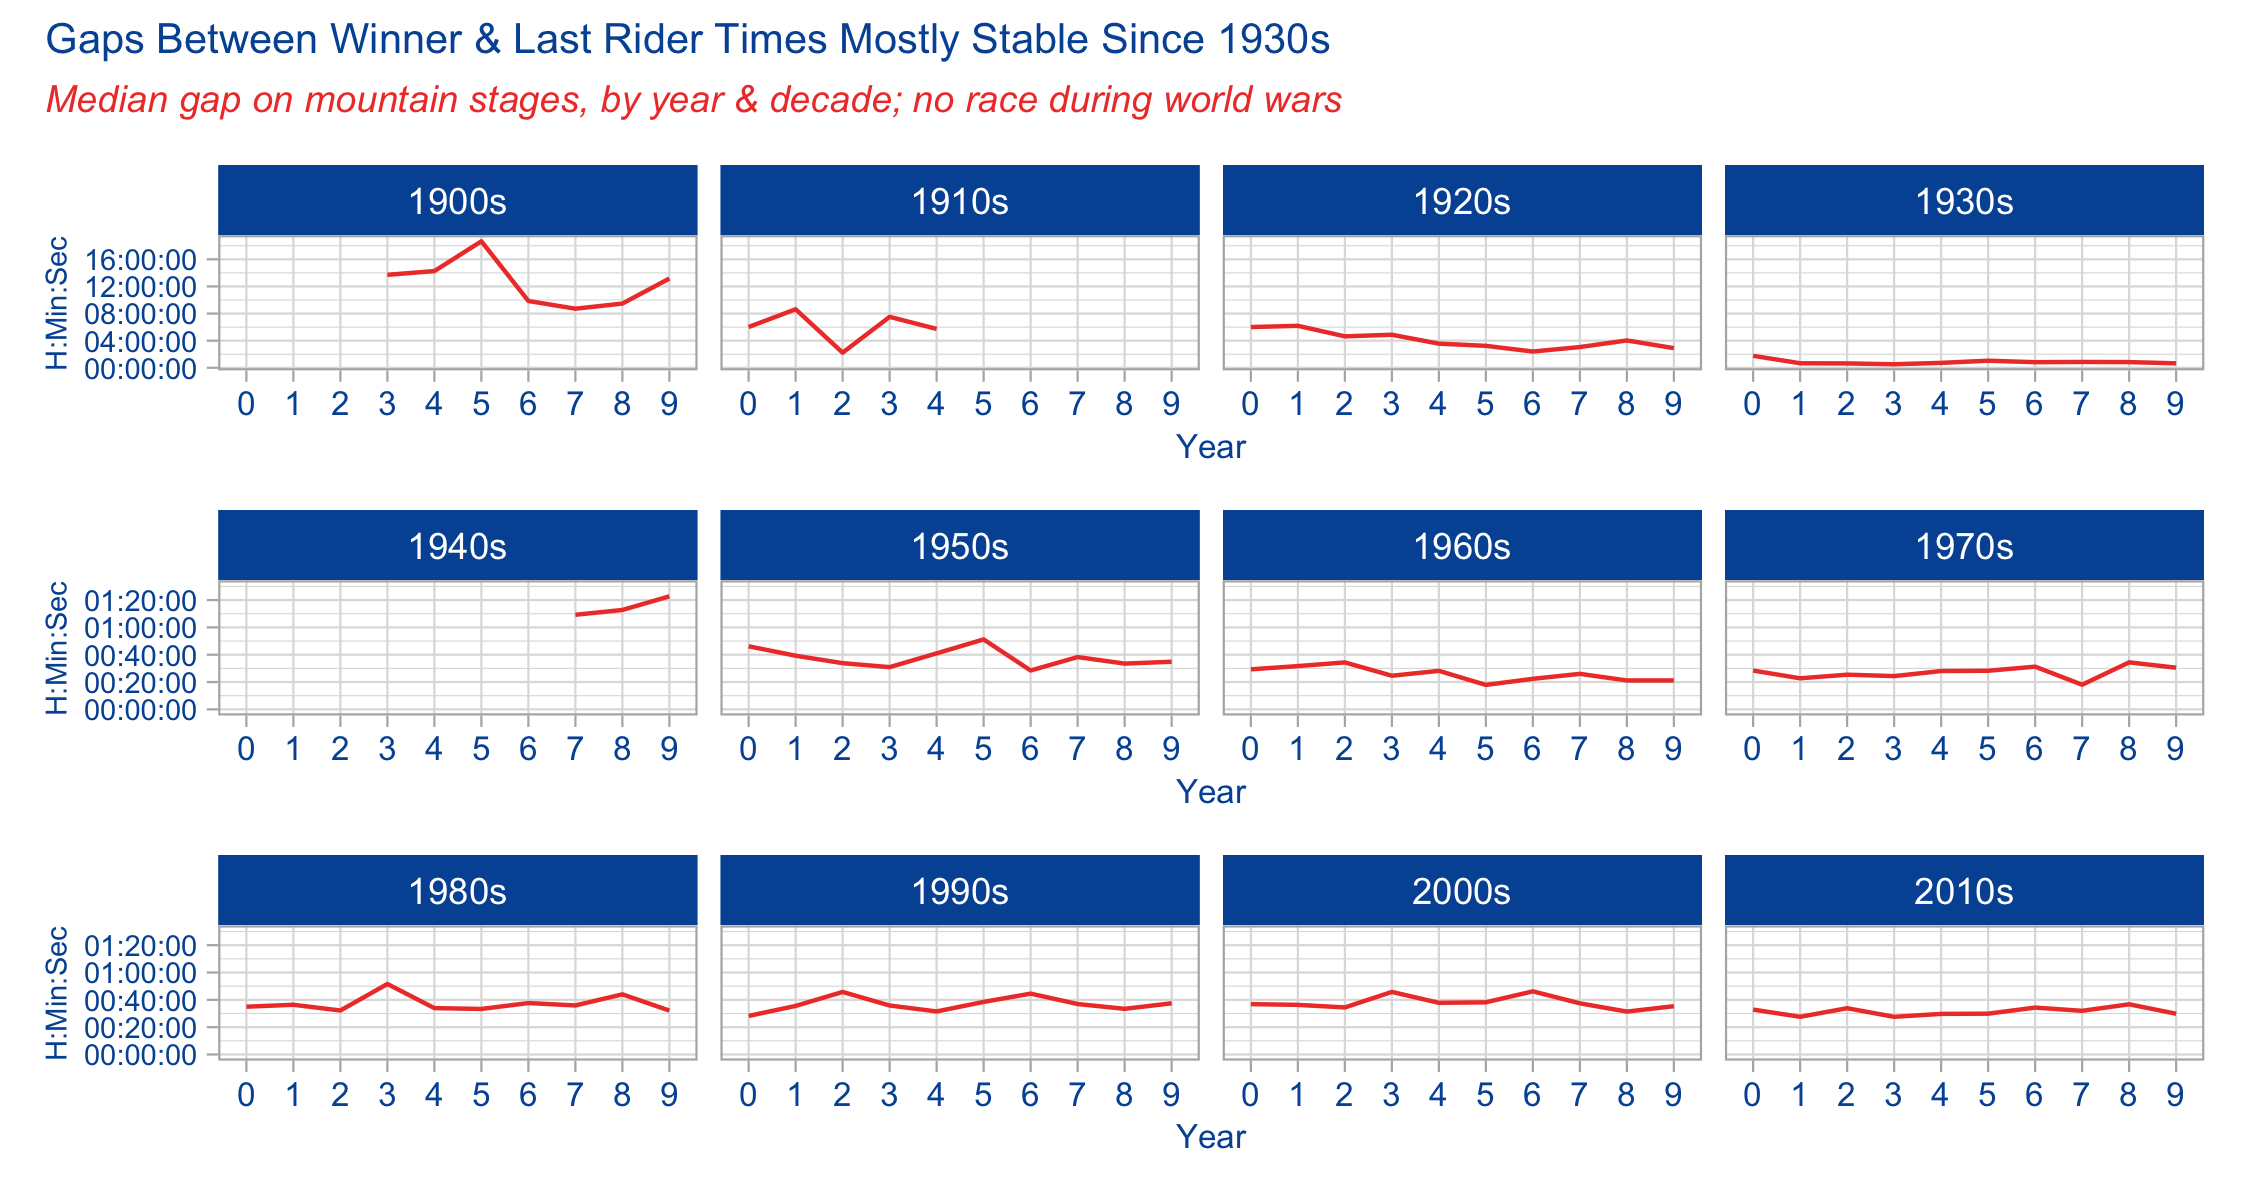
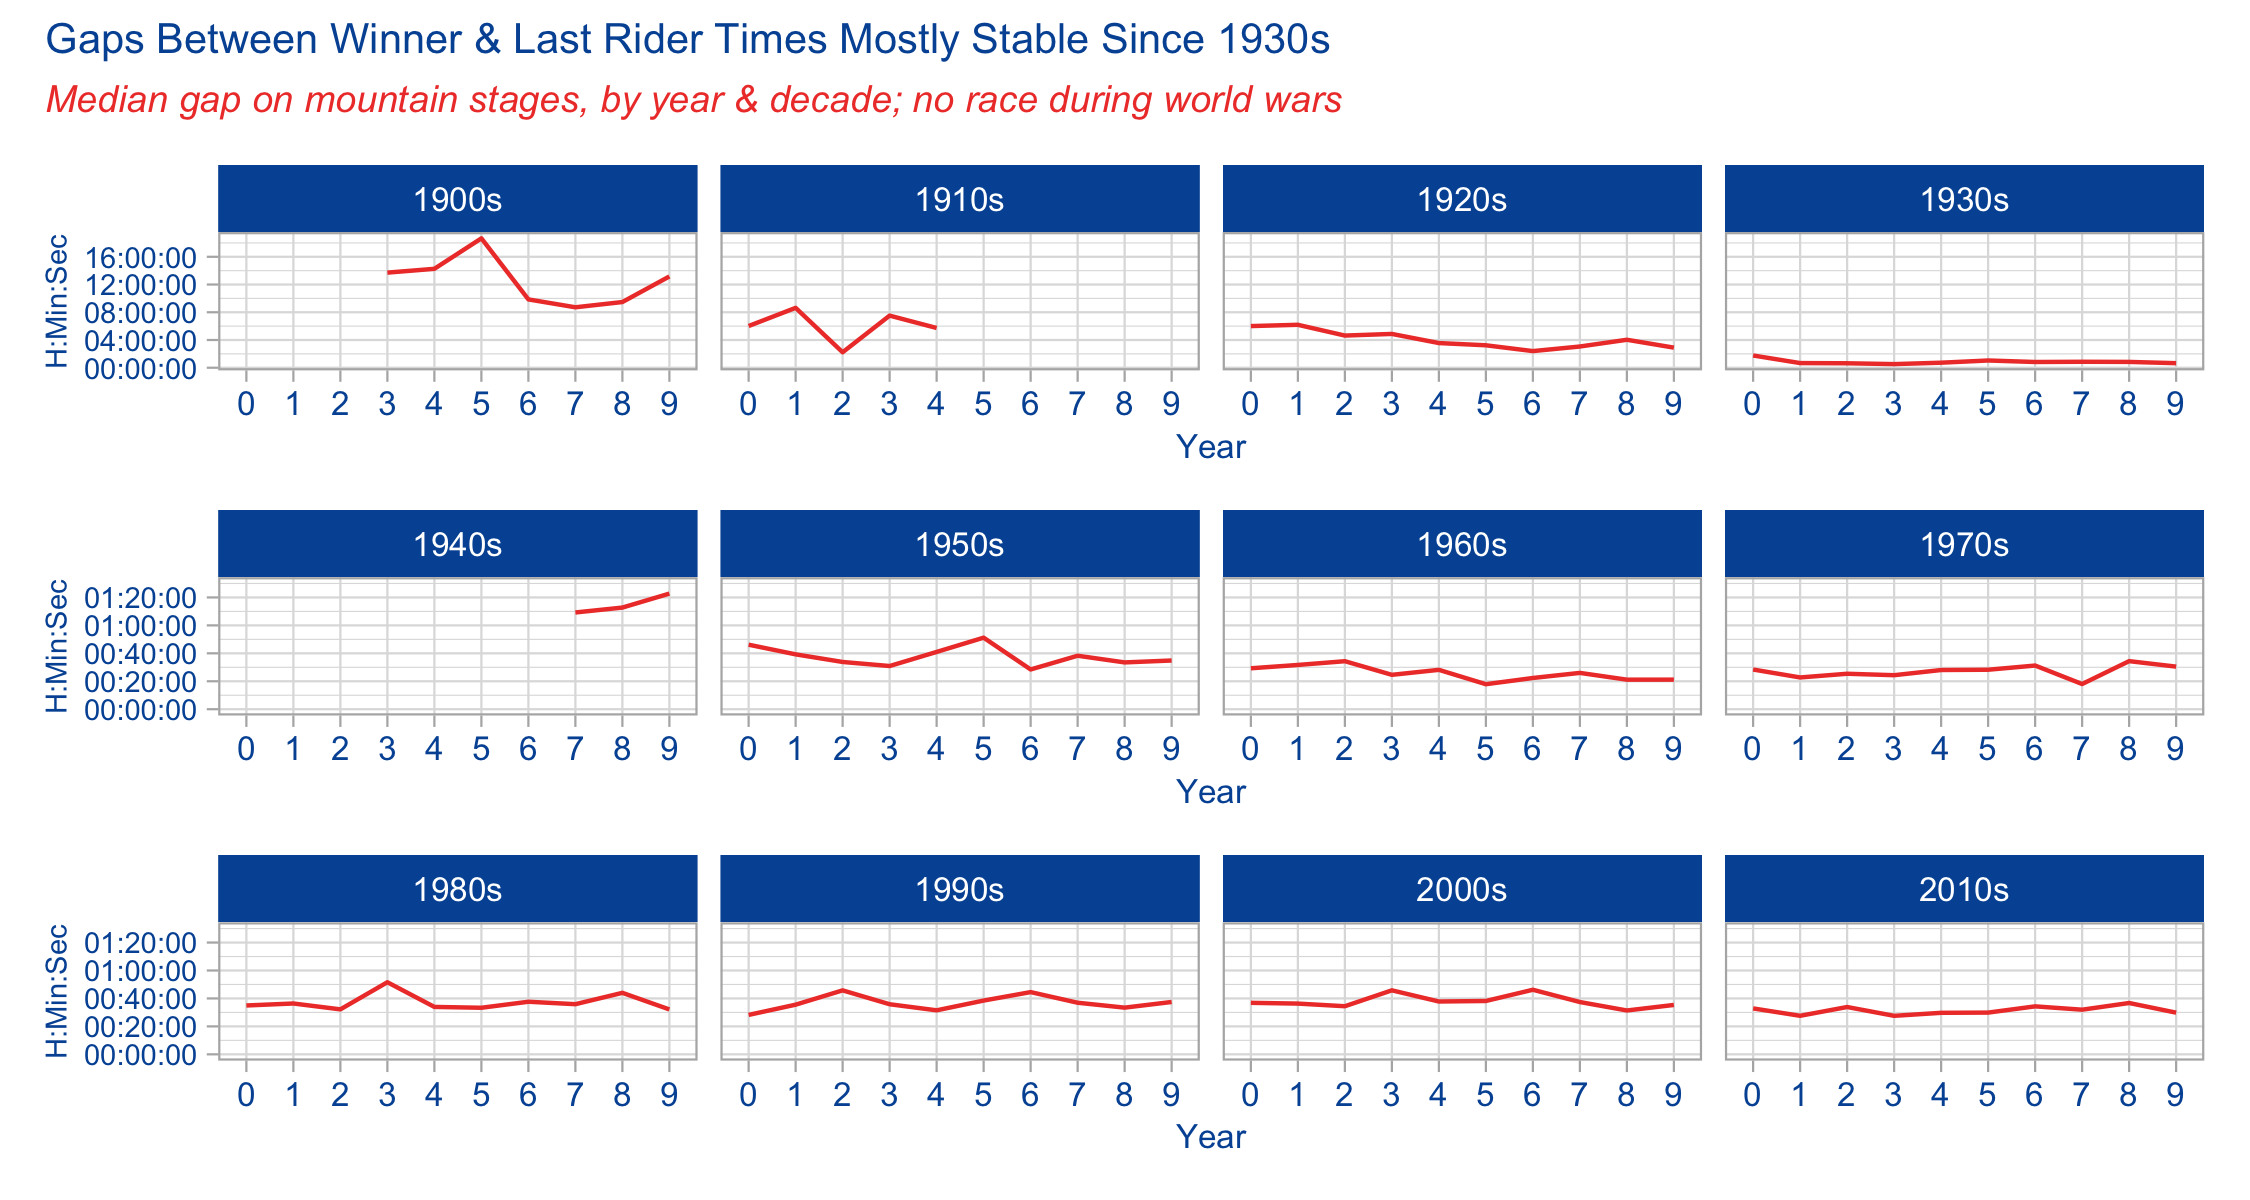
le tour stage 3

Changed region(s): [[0.0, 0.4317, 0.9956, 0.5858], [0.0, 0.7092, 0.9956, 0.8633], [0.0, 0.1542, 0.9956, 0.3083]]

diff --git a/2020/tt_2020-04-07_letour/README.md b/2020/tt_2020-04-07_letour/README.md
@@ -587,7 +587,7 @@ gaprangesyrdec %>%
         axis.title.y = element_text(color = "#0055A4" , size = 8),
         axis.text.x = element_text(color = "#0055A4", size = 8),
         axis.text.y = element_text(color = "#0055A4", size = 7),
-        strip.background = element_rect(fill = "#0055A4"))
+        strip.background = element_rect(fill = "#0055A4"), strip.text.x = element_text(size = 8))
 
 plot_dec_mtnb2 <-
 gaprangesyrdec %>%
@@ -604,7 +604,7 @@ gaprangesyrdec %>%
         axis.title.y = element_text(color = "#0055A4" , size = 8),
         axis.text.x = element_text(color = "#0055A4", size = 8),
         axis.text.y = element_text(color = "#0055A4", size = 7),
-        strip.background = element_rect(fill = "#0055A4"))
+        strip.background = element_rect(fill = "#0055A4"), strip.text.x = element_text(size = 8))
 
 plot_dec_mtnb3 <-
 gaprangesyrdec %>%
@@ -621,7 +621,7 @@ gaprangesyrdec %>%
         axis.title.y = element_text(color = "#0055A4" , size = 8),
         axis.text.x = element_text(color = "#0055A4", size = 8),
         axis.text.y = element_text(color = "#0055A4", size = 7),
-        strip.background = element_rect(fill = "#0055A4"))
+        strip.background = element_rect(fill = "#0055A4"), strip.text.x = element_text(size = 8))
 
 plot_dec_mtnb1 / plot_dec_mtnb2 / plot_dec_mtnb3 +
   plot_annotation(title = "Gaps Between Winner & Next Best Times are Narrowing",
@@ -650,73 +650,7 @@ the war did to the pool of riders. The sport needed time to recover, for
 riders to train and get back to full fitness.
 
 Ok, now let’s look at the changes in the mountaints from the winners to
-the time for the last rider(s).
-
-``` r
-# mountain winner to last
-plot_dec_mtla1 <-
-  gaprangesyrdec %>%
-  filter(compare_grp == "Last") %>%
-  filter(stage_type == "Mountain") %>%
-  filter(race_decade %in% c("1900s", "1910s", "1920s", "1930s")) %>%
-  #  filter(race_decade %in% c("1940s", "1950s", "1960s", "1970s")) %>%
-  ggplot(aes(year_n, medgap)) +
-  geom_line(group = 1, color = "#EF4135") +
-  geom_point(data = subset(gaprangesyrdec, 
-                           (race_year == 1919 & stage_type == "Last" & 
-                              compare_grp == "Next best" & year_n == "9")), 
-             aes(x = year_n, y = medgap), color = "#EF4135") +
-  scale_y_time(labels = waiver()) +
-  labs(x = "Year", y = "H:Min:Sec") + 
-  facet_grid( ~ race_decade) +
-  theme_light() +
-  theme(axis.title.x = element_text(color = "#0055A4", size = 8),
-        axis.title.y = element_text(color = "#0055A4", size = 7),
-        axis.text.x = element_text(color = "#0055A4", size = 8),
-        axis.text.y = element_text(color = "#0055A4", size = 7),
-        strip.background = element_rect(fill = "#0055A4"))
-
-plot_dec_mtla2 <-
-  gaprangesyrdec %>%
-  filter(compare_grp == "Last") %>%
-  filter(stage_type == "Mountain") %>%
-  filter(race_decade %in% c("1940s", "1950s", "1960s", "1970s")) %>%
-  ggplot(aes(year_n, medgap)) +
-  geom_line(group = 1, color = "#EF4135") +
-  scale_y_time(limits = c(0, 5400), labels = waiver()) +
-  labs(x = "Year", y = "H:Min:Sec") + 
-  facet_grid( ~ race_decade) +
-  theme_light() +
-  theme(axis.title.x = element_text(color = "#0055A4", size = 8),
-        axis.title.y = element_text(color = "#0055A4", size = 7),
-        axis.text.x = element_text(color = "#0055A4", size = 8),
-        axis.text.y = element_text(color = "#0055A4", size = 7),
-        strip.background = element_rect(fill = "#0055A4"))
-
-plot_dec_mtla3 <-
-  gaprangesyrdec %>%
-  filter(compare_grp == "Last") %>%
-  filter(stage_type == "Mountain") %>%
-  filter(race_decade %in% c("1980s", "1990s", "2000s", "2010s")) %>%
-  ggplot(aes(year_n, medgap)) +
-  geom_line(group = 1, color = "#EF4135") +
-  scale_y_time(limits = c(0, 5400), labels = waiver()) +
-  labs(x = "Year", y = "H:Min:Sec") + 
-  facet_grid( ~ race_decade) +
-  theme_light() +
-  theme(axis.title.x = element_text(color = "#0055A4", size = 8),
-        axis.title.y = element_text(color = "#0055A4", size = 7),
-        axis.text.x = element_text(color = "#0055A4", size = 8),
-        axis.text.y = element_text(color = "#0055A4", size = 7),
-        strip.background = element_rect(fill = "#0055A4"))
-
-plot_dec_mtla1 / plot_dec_mtla2 / plot_dec_mtla3  +
-  plot_annotation(title = "Gaps Between Winner & Last Rider Times Mostly Stable Since 1930s",
-                  subtitle = "Median gap on mountain stages, by year & decade; no race during world wars",
-                  theme = 
-                    theme(plot.title = element_text(color = "#0055A4", size = 10),
-                          plot.subtitle = element_text(color = "#EF4135", 
-                                                       face = "italic", size = 9)))
-```
-
+the time for the last rider(s). Because the code is mostly the same for
+this chart, I’ll set the code chunk eecho to FALSE. The only change is
+`filter(compare_grp == "Last")`
 <img src="images/tt_letour2c-1.png" width="100%" />
